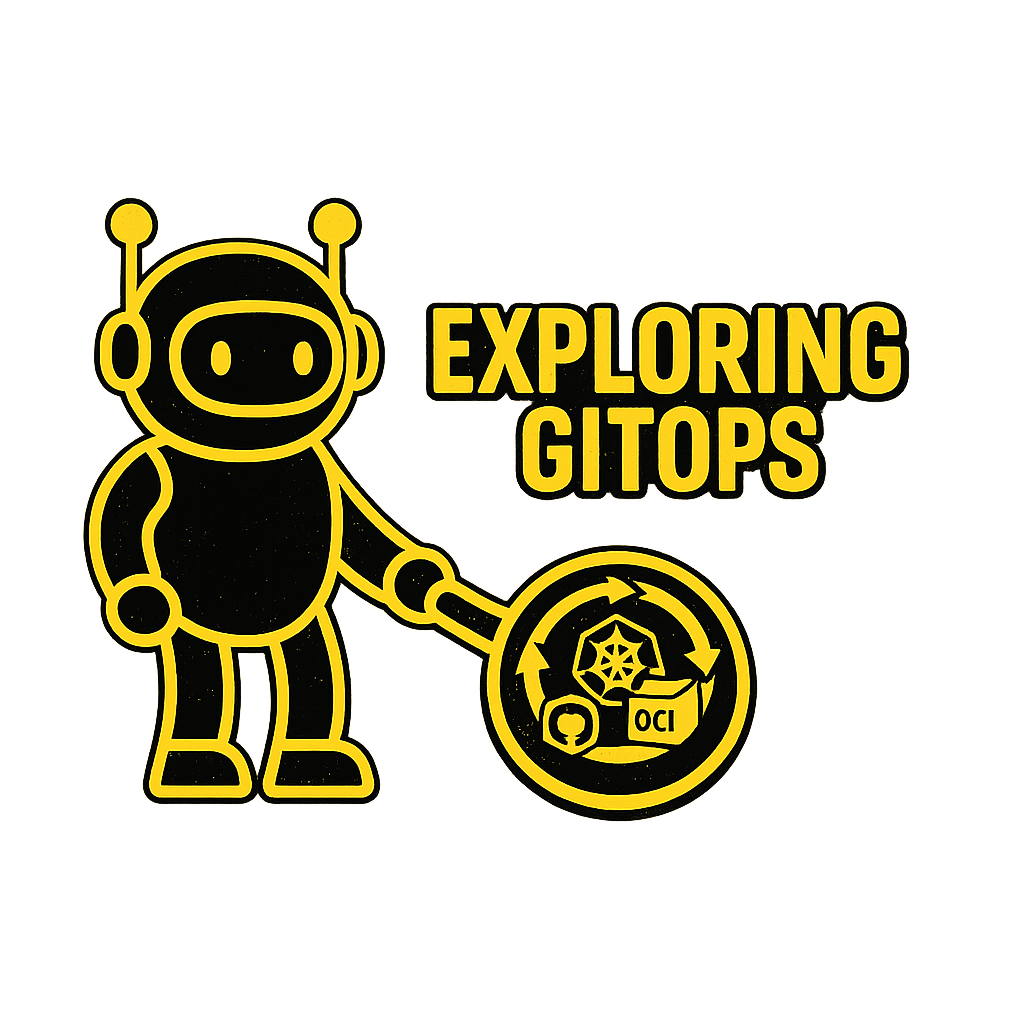
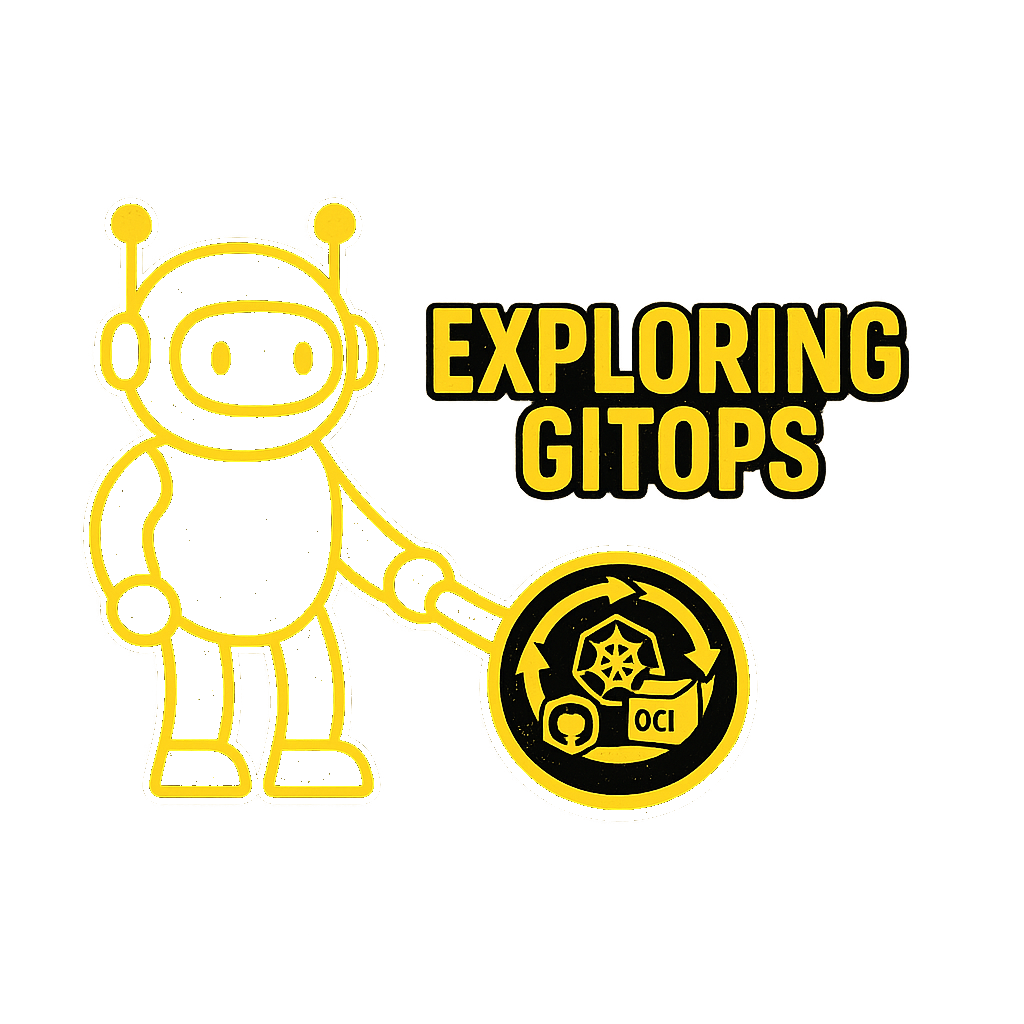
Apply amber-phosphor styling and content updates; convert code comments to annotations

diff --git a/docs/stylesheets/extra.css b/docs/stylesheets/extra.css
@@ -1,15 +1,283 @@
-/* Increase logo size in the header */
-.md-header__button.md-logo img {
-  height: 100px !important; /* try 48px, 64px, or larger */
+/* ==========================================================================
+   BRAND LAYER — "Amber phosphor, refined"
+   Shared identity across the Exploring * sites. Per-site theming lives in the
+   :root tokens below — to retheme a site, change --brand-accent,
+   --brand-accent-glow, and (optionally) the warm background hexes.
+   Everything in this block is identical on every site; per-site functional CSS
+   lives below the SITE-SPECIFIC marker at the end of the file.
+   ========================================================================== */
+
+@import url('https://fonts.googleapis.com/css2?family=Space+Grotesk:wght@500;600;700&display=swap');
+
+:root {
+  /* Per-site identity — the only values that change between sites */
+  --brand-accent: #f59e0b;                    /* amber */
+  --brand-accent-link: #fbbf24;               /* lighter amber for body links */
+  --brand-accent-glow: rgba(245, 158, 11, 0.35);
+  --brand-accent-soft: rgba(245, 158, 11, 0.12);
+
+  /* Shared structure */
+  --brand-display: "Space Grotesk", "IBM Plex Sans", system-ui, sans-serif;
+  --brand-mono: "IBM Plex Mono", ui-monospace, SFMono-Regular, monospace;
+  --brand-radius: 10px;
+  --brand-hairline: rgba(234, 228, 214, 0.10);
+}
+
+/* --- Recolor Material's slate scheme into a warm amber-phosphor palette --- */
+[data-md-color-scheme="slate"] {
+  --md-hue: 38;
+
+  --md-default-bg-color: #15130d;
+  --md-default-bg-color--light: rgba(21, 19, 13, 0.72);
+  --md-default-bg-color--lighter: rgba(21, 19, 13, 0.36);
+  --md-default-bg-color--lightest: rgba(21, 19, 13, 0.10);
+
+  --md-default-fg-color: #eae4d6;
+  --md-default-fg-color--light: rgba(234, 228, 214, 0.72);
+  --md-default-fg-color--lighter: rgba(234, 228, 214, 0.36);
+  --md-default-fg-color--lightest: rgba(234, 228, 214, 0.12);
+
+  --md-typeset-color: var(--md-default-fg-color);
+  --md-typeset-a-color: var(--brand-accent-link);
+
+  /* Header / nav / footer */
+  --md-primary-fg-color: #100e09;
+  --md-primary-fg-color--light: #1c190f;
+  --md-primary-fg-color--dark: #0b0906;
+  --md-primary-bg-color: #eae4d6;
+  --md-primary-bg-color--light: rgba(234, 228, 214, 0.72);
+
+  /* Interactive accent */
+  --md-accent-fg-color: var(--brand-accent);
+  --md-accent-fg-color--transparent: var(--brand-accent-soft);
+  --md-accent-bg-color: #15130d;
+  --md-accent-bg-color--light: rgba(21, 19, 13, 0.72);
+
+  /* Code */
+  --md-code-bg-color: #1b1810;
+  --md-code-fg-color: #e4dccb;
+  --md-code-hl-color: var(--brand-accent-soft);
+  --md-code-hl-keyword-color: #f0a868;
+  --md-code-hl-function-color: #e8c77d;
+  --md-code-hl-name-color: #e4dccb;
+  --md-code-hl-string-color: #b7c98a;
+  --md-code-hl-number-color: #e5b567;
+  --md-code-hl-constant-color: #e0a0c0;
+  --md-code-hl-special-color: #f0a868;
+  --md-code-hl-variable-color: #e4dccb;
+  --md-code-hl-comment-color: #877c66;
+  --md-code-hl-operator-color: rgba(234, 228, 214, 0.72);
+  --md-code-hl-punctuation-color: rgba(234, 228, 214, 0.72);
+}
+
+/* --- Typography: rhythm, measure, and the display face --------------------- */
+.md-typeset {
+  line-height: 1.72;
+  overflow-wrap: break-word;
+}
+
+.md-typeset h1,
+.md-typeset h2,
+.md-typeset h3,
+.md-typeset h4 {
+  font-family: var(--brand-display);
+  color: var(--md-default-fg-color);
+  font-weight: 600;
+  letter-spacing: -0.018em;
+}
+
+.md-typeset h1 {
+  font-size: 2.05rem;
+  line-height: 1.15;
+  margin-bottom: 0.7em;
+}
+
+.md-typeset h2 {
+  font-size: 1.5rem;
+  margin-top: 2.4em;
+}
+
+/* Authored `---` rules are the section dividers — give them presence */
+.md-typeset hr {
+  border-bottom: 1px solid var(--brand-hairline);
+}
+
+.md-typeset h3 {
+  font-size: 1.18rem;
+  margin-top: 1.8em;
+}
+
+/* Signature: shell-prompt glyph with a faint amber-phosphor glow on sections */
+.md-typeset h2::before {
+  content: "\276F";              /* ❯ */
+  font-family: var(--brand-mono);
+  font-weight: 500;
+  color: var(--brand-accent);
+  margin-right: 0.55rem;
+  text-shadow: 0 0 12px var(--brand-accent-glow);
+}
+
+/* Links: quiet until intentional */
+.md-typeset a {
+  text-decoration-color: var(--brand-accent-soft);
+  text-underline-offset: 0.18em;
+  transition: color 120ms ease, text-decoration-color 120ms ease;
+}
+.md-typeset a:hover {
+  color: var(--brand-accent);
+  text-decoration-color: var(--brand-accent);
+}
+
+/* --- Code blocks: terminal chrome ----------------------------------------- */
+.md-typeset pre > code,
+.md-typeset .highlighttable {
+  border: 1px solid var(--brand-hairline);
+  border-radius: var(--brand-radius);
+}
+.md-typeset pre > code {
+  display: block;        /* not inline — so long lines scroll, not overflow */
+  overflow-x: auto;
+  box-shadow: inset 0 1px 0 rgba(234, 228, 214, 0.03);
+}
+/* Make the <pre> itself a scroll container too, so long lines can never widen
+   the page even if the inner <code> renders inline. */
+.md-typeset pre {
+  max-width: 100%;
+  overflow-x: auto;
+}
+
+/* Code block title rendered like a terminal title bar */
+.md-typeset .highlight span.filename {
+  font-family: var(--brand-mono);
+  font-size: 0.72rem;
+  letter-spacing: 0.02em;
+  color: var(--md-default-fg-color--light);
+  background: #100e09;
+  border: 1px solid var(--brand-hairline);
+  border-bottom: none;
+  border-radius: var(--brand-radius) var(--brand-radius) 0 0;
+  padding-left: 2.1em;
+  position: relative;
+}
+.md-typeset .highlight span.filename::before {
+  content: "";
+  position: absolute;
+  left: 1em;
+  top: 50%;
+  width: 7px;
+  height: 7px;
+  border-radius: 50%;
+  background: var(--brand-accent);
+  box-shadow: 0 0 8px var(--brand-accent-glow);
+  transform: translateY(-50%);
+}
+
+.md-typeset code {
+  border-radius: 5px;
+}
+
+/* --- Admonitions: lighter frame, accent spine ----------------------------- */
+.md-typeset .admonition,
+.md-typeset details {
+  border: 1px solid var(--brand-hairline);
+  border-left-width: 3px;
+  border-radius: var(--brand-radius);
+  box-shadow: none;
+  font-size: 0.74rem;
+}
+
+/* --- Cards: hover lift + accent edge -------------------------------------- */
+.md-typeset .grid.cards > ul > li,
+.md-typeset .grid > .card {
+  border: 1px solid var(--brand-hairline);
+  border-radius: var(--brand-radius);
+  background: rgba(234, 228, 214, 0.015);
+  transition: transform 150ms ease, border-color 150ms ease, box-shadow 150ms ease;
+}
+.md-typeset .grid.cards > ul > li:hover,
+.md-typeset .grid > .card:hover {
+  transform: translateY(-3px);
+  border-color: var(--brand-accent);
+  box-shadow: 0 8px 28px rgba(0, 0, 0, 0.35);
+}
+
+/* --- Nav: amber active state ---------------------------------------------- */
+.md-nav__link--active,
+.md-nav__link:hover {
+  color: var(--brand-accent);
+}
+
+/* Respect reduced-motion preferences */
+@media (prefers-reduced-motion: reduce) {
+  .md-typeset .grid.cards > ul > li,
+  .md-typeset .grid > .card,
+  .md-typeset a {
+    transition: none;
+  }
+}
+
+/* ==========================================================================
+   STANDARDS — uniform across every site
+   ========================================================================== */
+
+/* Card grids: ONE column by default. Opt into two columns with `two-col`
+   (e.g. <div class="grid cards two-col" markdown>). minmax(0, 1fr) — NOT 1fr —
+   so a track can shrink below a code block's intrinsic width; otherwise the
+   longest code line stretches the column and the page scrolls sideways. */
+.md-typeset .grid.cards {
+  grid-template-columns: minmax(0, 1fr) !important;
+}
+.md-typeset .grid.cards.two-col {
+  grid-template-columns: repeat(2, minmax(0, 1fr)) !important;
+}
+/* ...but always collapse two-col back to one column on phones. */
+@media screen and (max-width: 768px) {
+  .md-typeset .grid.cards.two-col {
+    grid-template-columns: minmax(0, 1fr) !important;
+  }
+}
+
+/* Tables: center content tables on the page. `:not([class])` targets only
+   Markdown content tables — the linenums code blocks render as
+   <table class="..."> internally, so they're excluded and stay full-width. */
+.md-typeset table:not([class]) {
+  display: table;
+  margin-left: auto;
+  margin-right: auto;
+  width: auto;
+}
+.md-typeset table:not([class]) th {
+  text-align: center;
+  vertical-align: middle;
+}
+.md-typeset table:not([class]) td {
+  text-align: left;
+  vertical-align: middle;
+}
+.md-typeset .md-typeset__scrollwrap,
+.md-typeset .md-typeset__table {
+  display: flex;
+  justify-content: center;
+}
+
+/* Header logo: force it into the top bar at every width (Material hides the
+   header logo below 76em by default) and size it consistently across sites. */
+.md-header__button.md-logo {
+  display: inline-flex !important;
+  align-items: center;
+  margin: 0.2rem;
+}
+.md-header__button.md-logo img,
+.md-nav__button.md-logo img {
+  height: 56px !important;
+  width: auto;
   padding: 0;
   margin: 0;
 }
 
-/* Opt-in: force a single column for card grids with wide content (e.g. code blocks),
-   where the default multi-column layout would overflow. Add class "single-col". */
-.md-typeset .grid.cards.single-col {
-  grid-template-columns: 1fr !important;
-}
+/* ==========================================================================
+   SITE-SPECIFIC FUNCTIONAL CSS (preserved per site)
+   ========================================================================== */
 
 /* Center Mermaid diagrams */
 .mermaid {
@@ -24,7 +292,6 @@
   max-width: 100%;
 }
 
-/* On tablet and larger: float right */
 @media screen and (min-width: 768px) {
   .img-responsive-right {
     float: right;

diff --git a/docs/day_one/flux_resources.md b/docs/day_one/flux_resources.md
@@ -23,7 +23,7 @@ When you run [`kubectl get`](https://k8s.bradpenney.io/day_one/kubectl/commands/
 
 Flux resources fall into two categories:
 
-<div class="grid cards" markdown>
+<div class="grid cards two-col" markdown>
 
 -   :material-download: **Sources**
 

diff --git a/docs/day_one/overview.md b/docs/day_one/overview.md
@@ -48,7 +48,7 @@ Day One explains the paradigm and gives you the vocabulary to work confidently i
 
 ## The Articles
 
-<div class="grid cards" markdown>
+<div class="grid cards two-col" markdown>
 
 -   :material-lightbulb: **[What Is GitOps?](what_is_gitops.md)**
 

diff --git a/docs/day_one/reading_flux_status.md b/docs/day_one/reading_flux_status.md
@@ -63,7 +63,7 @@ These commands cover the majority of what you'll need day-to-day. Flux resources
 !!! note "You May Not Have Access"
     Your platform team may use standard Kubernetes RBAC to limit who can read Flux resources — especially in the `flux-system` namespace. If a `kubectl get` here returns a `Forbidden` error, that's expected, not broken: ask your platform team for read access, or for the namespace where your app's resources live.
 
-<div class="grid cards single-col" markdown>
+<div class="grid cards" markdown>
 
 -   :material-cube-outline: **OCIRepository Status**
 

diff --git a/docs/day_one/what_is_gitops.md b/docs/day_one/what_is_gitops.md
@@ -34,7 +34,7 @@ These commands work. But they create invisible state. **The cluster knows what's
 
 This leads to real problems:
 
-<div class="grid cards" markdown>
+<div class="grid cards two-col" markdown>
 
 -   :material-sync-alert: **Drift**
 

diff --git a/docs/day_one/your_flux_workflow.md b/docs/day_one/your_flux_workflow.md
@@ -27,7 +27,7 @@ A common misconception about GitOps is that Flux watches your GitHub repository 
 
 Here's why:
 
-<div class="grid cards" markdown>
+<div class="grid cards two-col" markdown>
 
 -   :material-server-off: **Runtime Dependency on a Git Forge**
 

diff --git a/docs/index.md b/docs/index.md
@@ -16,7 +16,7 @@ This site covers GitOps with **[FluxCD](https://fluxcd.io/flux/)** — a [CNCF G
 
 Start where you are. The tiers build in order, but jump to whatever you need.
 
-<div class="grid cards" markdown>
+<div class="grid cards two-col" markdown>
 
 -   :material-account: **Day One — Developers and New Team Members**
 